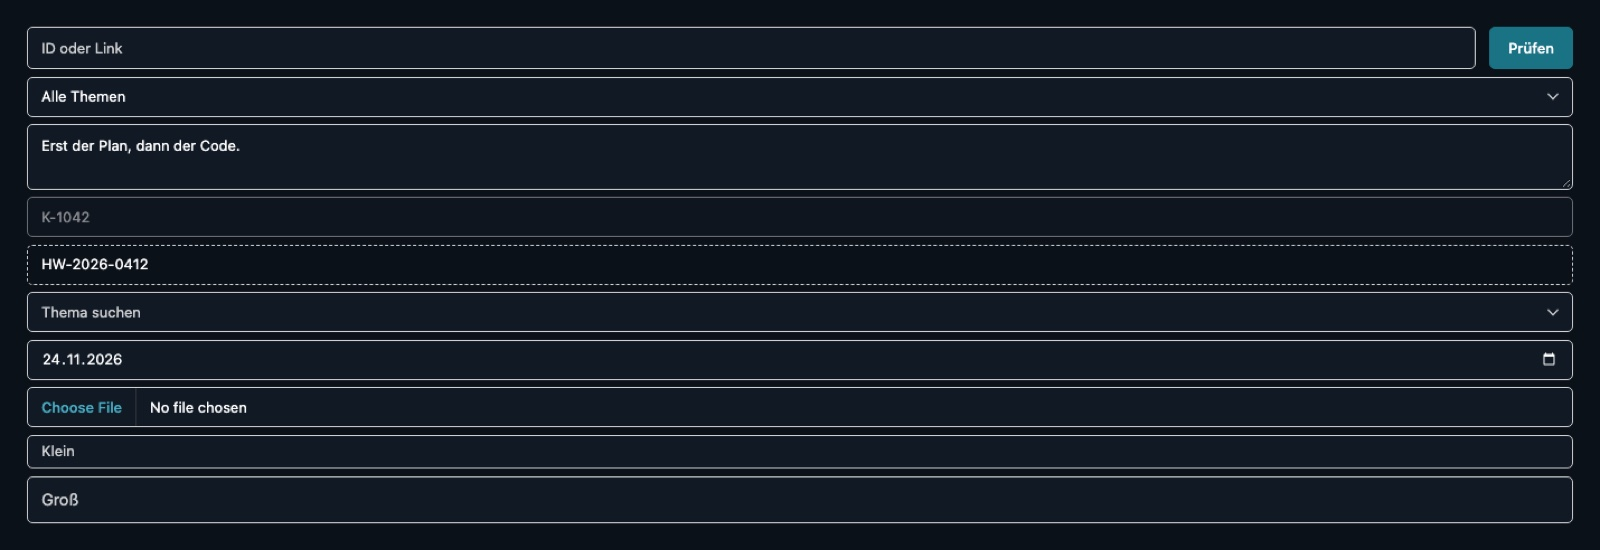
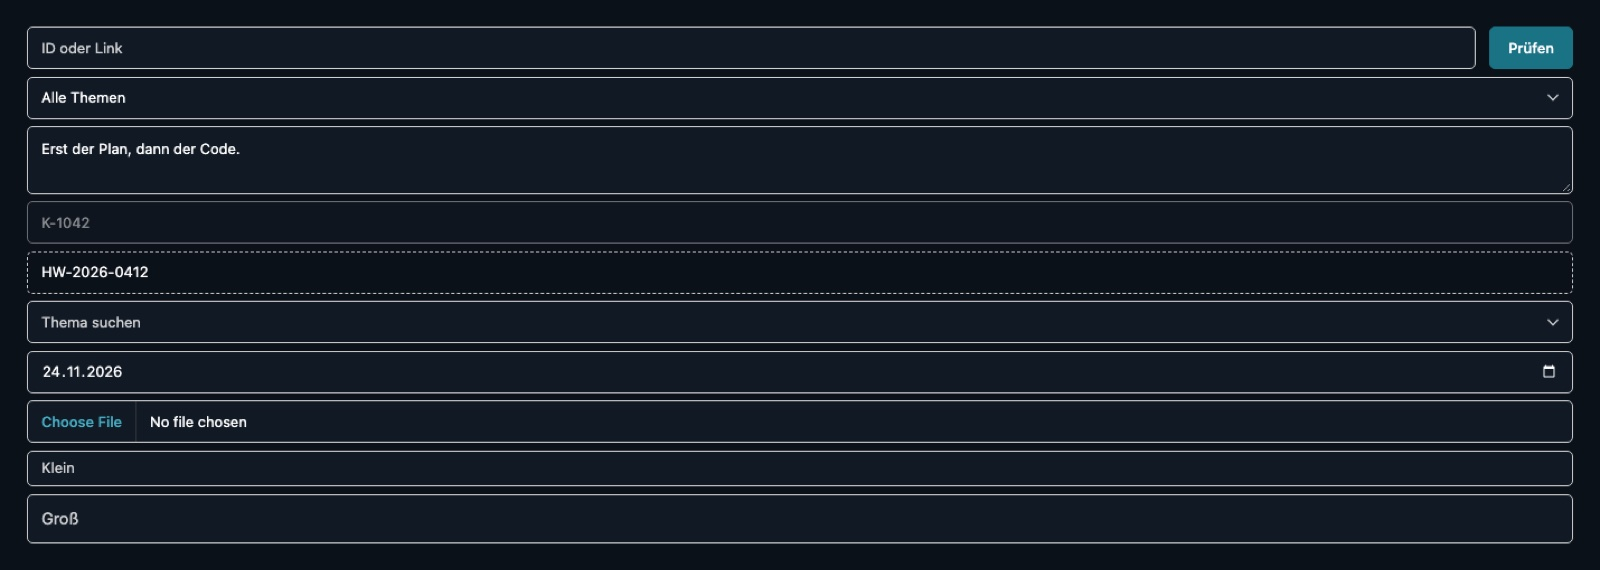
Dense control height 38 px, the button's: a search with its button stands one height with choices and selects
At 36 px the list filter's search field stood 2 px below its 38 px button (40/40 before). The
height review's lead of 36 over 38 px lies inside the noise with Codex (tied in three of four
runs), and 38 px needs no exception, so --hw-control-height takes var(--hw-button-height). The
build renders pixel-identical to the reviewed 38 px candidate in two builds. Report updated: the
per-reviewer scores, the surfaces not scored, one prompt verbatim, the review size.

diff --git a/test/elements.test.ts b/test/elements.test.ts
@@ -1593,7 +1593,7 @@ const byPointer = async <T>(name: string, html: string, read: () => T) => {
 
 // A filter bar sets choices beside selects: in dense the choice, the field and the field select
 // stand one height, the control height by mouse, the touch floor on a touch screen.
-test("in dense a choice, a field and a field select stand 36 px by mouse, 44 px by touch", async () => {
+test("in dense a choice, a field and a field select stand 38 px by mouse, 44 px by touch", async () => {
   const bar = `<div class="hw-choices"><button type="button" class="hw-choice" aria-pressed="true">Alle</button></div><select class="hw-field hw-select" aria-label="Thema"><option>Alle</option></select><input class="hw-field" aria-label="Suche">`;
   const heights = await byPointer(
     "control-height.html",
@@ -1607,7 +1607,7 @@ test("in dense a choice, a field and a field select stand 36 px by mouse, 44 px 
         Math.round(e.getBoundingClientRect().height),
       ),
   );
-  expect(heights).toEqual([Array(6).fill(36), Array(6).fill(44)]);
+  expect(heights).toEqual([Array(6).fill(38), Array(6).fill(44)]);
 }, 30_000);
 
 // The night field's fill is a colour only, so the select keeps one chevron at every scale, in a

diff --git a/elements/scales.css b/elements/scales.css
@@ -103,8 +103,9 @@
   --hw-kpi-tracking: -0.01em;
   /* The compact tier: the expert set's UI text at macOS's 13 px, its micro step at 11 px. meta
      repeats ui here, since a var() resolves where it is declared. The heights an app's components
-     read: a list row's padding, and a filter control's height, which a choice, a field and an
-     app's form-input share, so choices and selects in one filter bar stand one height. */
+     read: a list row's padding, and a filter control's height, the button's, which a choice, a
+     field and an app's form-input share, so choices, selects and a search with its button stand
+     one height. */
   --text-ui: 0.8125rem;
   --text-ui--line-height: 1.45;
   --text-meta: var(--text-ui);
@@ -113,7 +114,7 @@
   --text-micro--line-height: calc(15 / 11);
   --hw-row-pad-block: 0.5rem;
   --hw-row-pad-inline: 0.75rem;
-  --hw-control-height: 2.25rem;
+  --hw-control-height: var(--hw-button-height);
   /* A form at the expert set's control height and UI text, the touch target's on a touch screen. */
   --hw-field-height: max(var(--hw-control-height), var(--hw-touch-floor, 0px));
   --hw-field-pad: 0.75rem;

diff --git a/expert/expert.css b/expert/expert.css
@@ -295,7 +295,7 @@ html[data-theme="dark"] {
      the choices beside them stand one height. */
   .form-input {
     @apply rounded-sm border border-input bg-background px-3 py-1.5 text-ui text-foreground;
-    min-height: max(var(--hw-control-height, 2.25rem), var(--hw-touch-floor, 0px));
+    min-height: max(var(--hw-control-height, 2.375rem), var(--hw-touch-floor, 0px));
     /* Never under scales.css's --hw-field-floor, so iOS does not zoom on focus. */
     font-size: max(var(--hw-field-floor, 0px), var(--text-ui));
   }

diff --git a/test/catalog/stories.test.ts b/test/catalog/stories.test.ts
@@ -138,7 +138,7 @@ test("a filter bar's choices and selects stand one height by mouse and touch, da
     }
   };
   for (const theme of ["light", "dark"]) {
-    expect([theme, await heights(false, theme)]).toEqual([theme, [36]]);
+    expect([theme, await heights(false, theme)]).toEqual([theme, [38]]);
     expect([theme, await heights(true, theme)]).toEqual([theme, [44]]);
   }
   expect((await heights(false, "light", BEFORE)).length).toBeGreaterThan(1);

diff --git a/docs/agent-work/2026-11-11-control-height.md b/docs/agent-work/2026-11-11-control-height.md
@@ -23,27 +23,32 @@ go below 16 px there (`--hw-field-floor`): 16 × 1.45 line height, plus 16 px pa
 
 **Review.** Four common heights were each rendered on the same story, by mouse, light and night, with
 today's 32/40 px as a fifth candidate. Today's touch state was set against all controls at 44 px.
-Results are in the review section below. 36 px led 40 px with every reviewer and both models, so
-36 px ships, not the 40 px the os brief proposed.
+Results are in the review section below. 36 px scored highest, but it does not lead 38 px outside
+the noise with both models. 38 px is also the dense button's height, so with it the list filter's
+search field and its button stand one height too. 38 px ships, not the 40 px the os brief
+proposed.
 
-**Change.** In `elements/scales.css`, the dense `--hw-control-height` is now 2.25rem (36 px).
-`--hw-choice-height` and `--hw-field-height` are both
-`max(var(--hw-control-height), var(--hw-touch-floor, 0px))`. In `expert/expert.css`, `.form-input`
-takes the same `min-height` with `py-1.5` padding, so a 13 px or 14 px line fits inside 36 px.
+**Change.** In `elements/scales.css`, the dense `--hw-control-height` is now
+`var(--hw-button-height)`, 2.375rem (38 px), was 2.5rem. `--hw-choice-height` and
+`--hw-field-height` are both `max(var(--hw-control-height), var(--hw-touch-floor, 0px))`. In
+`expert/expert.css`, `.form-input` takes the same `min-height` with `py-1.5` padding. With `py-2`,
+the trainer hub's 14 px line (21 px) plus padding and border would come to 39 px.
 
-**After.** Every choice and select in the story is 36 px by mouse and 44 px on touch, light and
-night. The shipped build renders pixel-identical to the winning candidate, by mouse and on touch.
-`test/catalog/stories.test.ts` covers this. Its control injects the v2.16.0 values, and the test
-then finds more than one height.
+**After.** Every choice and select in the story is 38 px by mouse and 44 px on touch, light and
+night. In the dense list filter, the search field, its button and the choices are all 38 px; at
+36 px the field stood beside a 38 px button. Two builds each render pixel-identical to the 38 px
+candidate (mouse) and the 44 px candidate (touch). `test/catalog/stories.test.ts` covers this. Its
+control injects the v2.16.0 values, and the test then finds more than one height. The before shots
+were taken once. The after shots were taken twice, and all 28 match.
 
 ![Before: the filter bar on night](2026-11-11-control-height/filter-bar-night-before.jpg)
 ![After: the filter bar on night](2026-11-11-control-height/filter-bar-night-after.jpg)
 ![Before: the filter bar on a phone](2026-11-11-control-height/filter-bar-phone-before.jpg)
 ![After: the filter bar on a phone](2026-11-11-control-height/filter-bar-phone-after.jpg)
 
-**Cost.** In dense, by mouse, choices grow 4 px. Inputs, selects and every `hw-field` shrink 4 px,
-from 40 to 36 px, in forms as well as filter bars. On touch, every dense choice, field and
-`form-input` stands 44 px tall.
+**Cost.** In dense, by mouse, choices grow 6 px (32 to 38). Inputs, selects and every `hw-field`
+shrink 2 px (40 to 38), in forms as well as filter bars. On touch, every dense choice, field and
+`form-input` stands 44 px tall: choices grow 12 px there.
 
 ## 2. The select on night showed a zigzag over its whole field
 
@@ -143,9 +148,21 @@ the chevron fix. The height candidates also had the small corner on `hw-field`.
 | 40 px                                              | 7.6          |
 | v2.16.0: 32 px choices, 40 px selects              | 6.3          |
 
-Noise, the spread between two runs of one reviewer, averaged 0.25 and reached 1 at most. 36 px
-led 40 px in every run, by 1.0 on average, and led 38 px by 0.5. It never trailed 38 px with any
-reviewer.
+Noise, the spread between two runs of one reviewer, averaged 0.25 and reached 1 at most. Mean of
+each reviewer's two runs:
+
+| Reviewer                 | 36 px | 38 px | 32 px | 40 px | v2.16.0 |
+| ------------------------ | ----- | ----- | ----- | ----- | ------- |
+| Design system, Claude    | 8.5   | 7.5   | 8     | 7     | 5       |
+| Design system, Codex     | 9     | 9     | 9     | 8.5   | 8       |
+| Sales operations, Claude | 8     | 7.5   | 7.5   | 7     | 5       |
+| Sales operations, Codex  | 9     | 8.5   | 8.5   | 8     | 7       |
+
+36 px led 40 px with every reviewer, by 1.0 on average. Its lead over 38 px is 0.5, and over 32
+px 0.375. With Codex, 36 px and 38 px tied in three of four runs, so the lead does not stand outside
+the noise with both models. The review skill sends such a tie to the variant that needs no
+exception. 38 px is the dense button's height; at 36 px, the list filter's search field stands 2
+px below its button (section 1). So 38 px ships.
 
 | Filter bar, phone (2 × 2 × 1) | Mean overall |
 | ----------------------------- | ------------ |
@@ -160,6 +177,36 @@ reviewer.
 
 sm led square by 1.0 with each reviewer and both models. Noise was not measured for these two
 reviews, at one run each.
+
+**Surfaces.** The bar was scored as the apps show it: dense, 13 px text, light and night, at 1440
+px by mouse and at 390 px on touch. Not scored: the trainer hub's 14 px text
+(`data-hw-type="regular"`), a dense form beyond the bar, and the talks site. The corners were scored
+on the field set at all four scales, light and night, as the portal shows it.
+
+**One reviewer prompt, verbatim** (filter bar, sales operations, Claude, run 1):
+
+> You work in sales operations and filter deal, task and contact lists in your company's internal
+> web app all day on a 14-inch laptop.
+>
+> You review candidates for a filter bar in an internal web app (dense UI, 13 px interface text),
+> shown at 1440 px wide on a laptop screen at 2x pixel density; each image is the bar at its real
+> size, cropped to the controls. Each candidate shows the same filter bar: a row of filter choices,
+> a row of two dropdowns, and a row with both side by side. Each candidate has two images: day
+> (light) and night (dark).
+>
+> Candidates (open every image before scoring): T, K, N, M, R, each with a day and a night image
+> path.
+>
+> Score every candidate on each criterion from 1 (poor) to 10 (excellent), then give an overall
+> score from 1 to 10: 1. row alignment: controls standing next to each other read as one row; 2.
+> visual calm; 3. breathing room, not cramped; 4. legibility of the text inside the controls; 5.
+> the controls look clickable at their size; 6. fit for a dense work app used all day.
+>
+> Then, per candidate, name in one sentence what keeps its lowest criterion below 10. Judge only
+> what you see. Answer with one JSON object per line and nothing else.
+
+The candidate list and the criteria stood one per line in the prompt, and the answer format named
+the JSON fields.
 
 **Findings outside this change.** Every form reviewer named the screen file field in the portal's
 narrow column, which shortens its text to "No fil…hosen". So did the print column's tight padding.
@@ -191,8 +238,8 @@ which said `data-story-of` always names a component. Not taken, with the reason:
 
 ## Not explained
 
-- The shipped form set and the winning form candidate differ in 110 of 2.9 million pixels, by at
-  most 8 of 255. The pixels lie along the dashed read-only lines. One difference between the two:
+- The shipped form set (its dense fields set back to 40 px for the comparison) and the winning form
+  candidate differ in 110 of 2.9 million pixels, by at most 8 of 255. The pixels lie along the dashed read-only lines. One difference between the two:
   the candidate set the corner from an unlayered rule, the shipped one from the element's layer.
   No control has tested it as the cause.
 
@@ -200,5 +247,10 @@ which said `data-story-of` always names a component. Not taken, with the reason:
 
 - On screen, `hw-choice` is 44 px and `hw-field` 48 px, the same mismatch class as dense had. A
   screen filter bar with both needs its own review.
-- In the dense list filter, the search field is now 36 px and its button 38 px (`--hw-button-height`
-  2.375rem). It was 40 against 38 before.
+- The settings test (`test/elements.test.ts`) now lists `--hw-control-height` among the settings
+  the screen preset need not set: only the dense preset reads it.
+- On touch, the dense button stays 38 px beside 44 px fields and choices: `hw-button` takes no touch
+  floor.
+
+Review: medium for each value (two personas, Claude and Codex), because a shared element's value
+changes on every dense surface; the height review ran twice per reviewer to measure noise.
